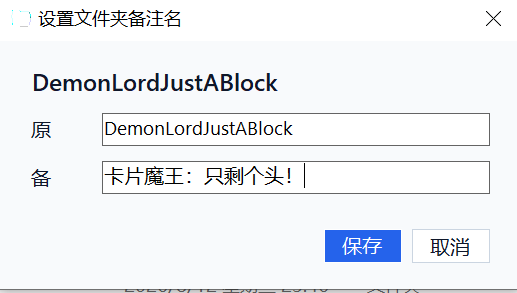
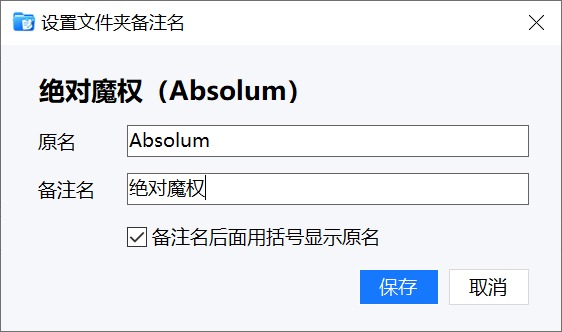
Update usage guide image and context menu

diff --git a/Program.cs b/Program.cs
@@ -91,7 +91,7 @@ internal sealed class TrayContext : ApplicationContext
         };
         menu.Items.Add("设置...", null, (_, _) => ShowSettings());
         menu.Items.Add("使用说明", null, (_, _) => MessageBox.Show(
-            $"在 Windows 资源管理器中选中一个文件夹，按 {settings.Hotkey.DisplayText} 设置备注名。\r\n\r\n右键菜单可直接设置备注，也可以重启工具。",
+            $"在 Windows 资源管理器中选中一个文件夹，按 {settings.Hotkey.DisplayText} 设置备注名。\r\n\r\n也可以右键文件夹，选择“设置备注名”。",
             "文件夹备注名",
             MessageBoxButtons.OK,
             MessageBoxIcon.Information));
@@ -865,8 +865,6 @@ internal static class ContextMenuInstaller
         {
             TryInstall(() => InstallSetRemarkKey(FolderDirectMenuKey, "%1"));
             TryInstall(() => InstallSetRemarkKey(BackgroundDirectMenuKey, "%V"));
-            TryInstall(() => InstallRestartKey(FolderDirectRestartMenuKey));
-            TryInstall(() => InstallRestartKey(BackgroundDirectRestartMenuKey));
         }
     }
 
@@ -898,24 +896,6 @@ internal static class ContextMenuInstaller
         using var setRemarkCommandKey = Registry.CurrentUser.CreateSubKey(menuKey + @"\command");
         setRemarkCommandKey?.SetValue("", $"\"{exePath}\" --set-remark \"{folderArgument}\"");
         CrashLog.WriteMessage($"安装设置备注菜单：{menuKey}");
-    }
-
-    private static void InstallRestartKey(string menuKey)
-    {
-        DeleteRegistryTree(menuKey + @"\shell");
-        DeleteRegistryTree(menuKey + @"\command");
-
-        var exePath = Application.ExecutablePath;
-        var iconPath = AppIcon.GetIconFilePath();
-        using var restartKey = Registry.CurrentUser.CreateSubKey(menuKey);
-        restartKey?.SetValue("", "重启备注工具");
-        restartKey?.SetValue("Icon", iconPath);
-        restartKey?.DeleteValue("MUIVerb", false);
-        restartKey?.DeleteValue("SubCommands", false);
-
-        using var restartCommandKey = Registry.CurrentUser.CreateSubKey(menuKey + @"\command");
-        restartCommandKey?.SetValue("", $"\"{exePath}\" --restart-app");
-        CrashLog.WriteMessage($"安装重启菜单：{menuKey}");
     }
 
     private static void Uninstall()

diff --git a/README.md b/README.md
@@ -4,7 +4,7 @@
 
 一个 Windows 托盘小工具，用来给资源管理器里的文件夹设置“备注名”。真实文件夹名不变，备注显示名通过 `desktop.ini` 保存。
 
-![设置备注名](docs/images/remark-dialog.png)
+![文件夹备注名使用说明](docs/images/usage-guide.png)
 
 ## 功能
 
@@ -22,8 +22,6 @@
 2. 在 Windows 资源管理器中选中一个文件夹。
 3. 按快捷键，输入备注名并保存。
 4. 也可以右键文件夹，选择“设置文件夹备注名”。
-
-![右键菜单](docs/images/context-menu.png)
 
 ## 设置
 
@@ -75,7 +73,7 @@ dotnet publish .\FolderRemarkNameTool.csproj -c Release -p:Platform=x64
 
 A small Windows tray utility for assigning a remark display name to folders in File Explorer. The real folder name stays unchanged, while the display name is stored through `desktop.ini`.
 
-![Remark dialog](docs/images/remark-dialog.png)
+![Folder Remark Name Tool usage guide](docs/images/usage-guide.png)
 
 ## Features
 
@@ -93,8 +91,6 @@ A small Windows tray utility for assigning a remark display name to folders in F
 2. Select a folder in Windows File Explorer.
 3. Press the configured shortcut, enter a remark name, and save.
 4. You can also right-click a folder and choose "Set folder remark name".
-
-![Context menu](docs/images/context-menu.png)
 
 ## Settings
 
